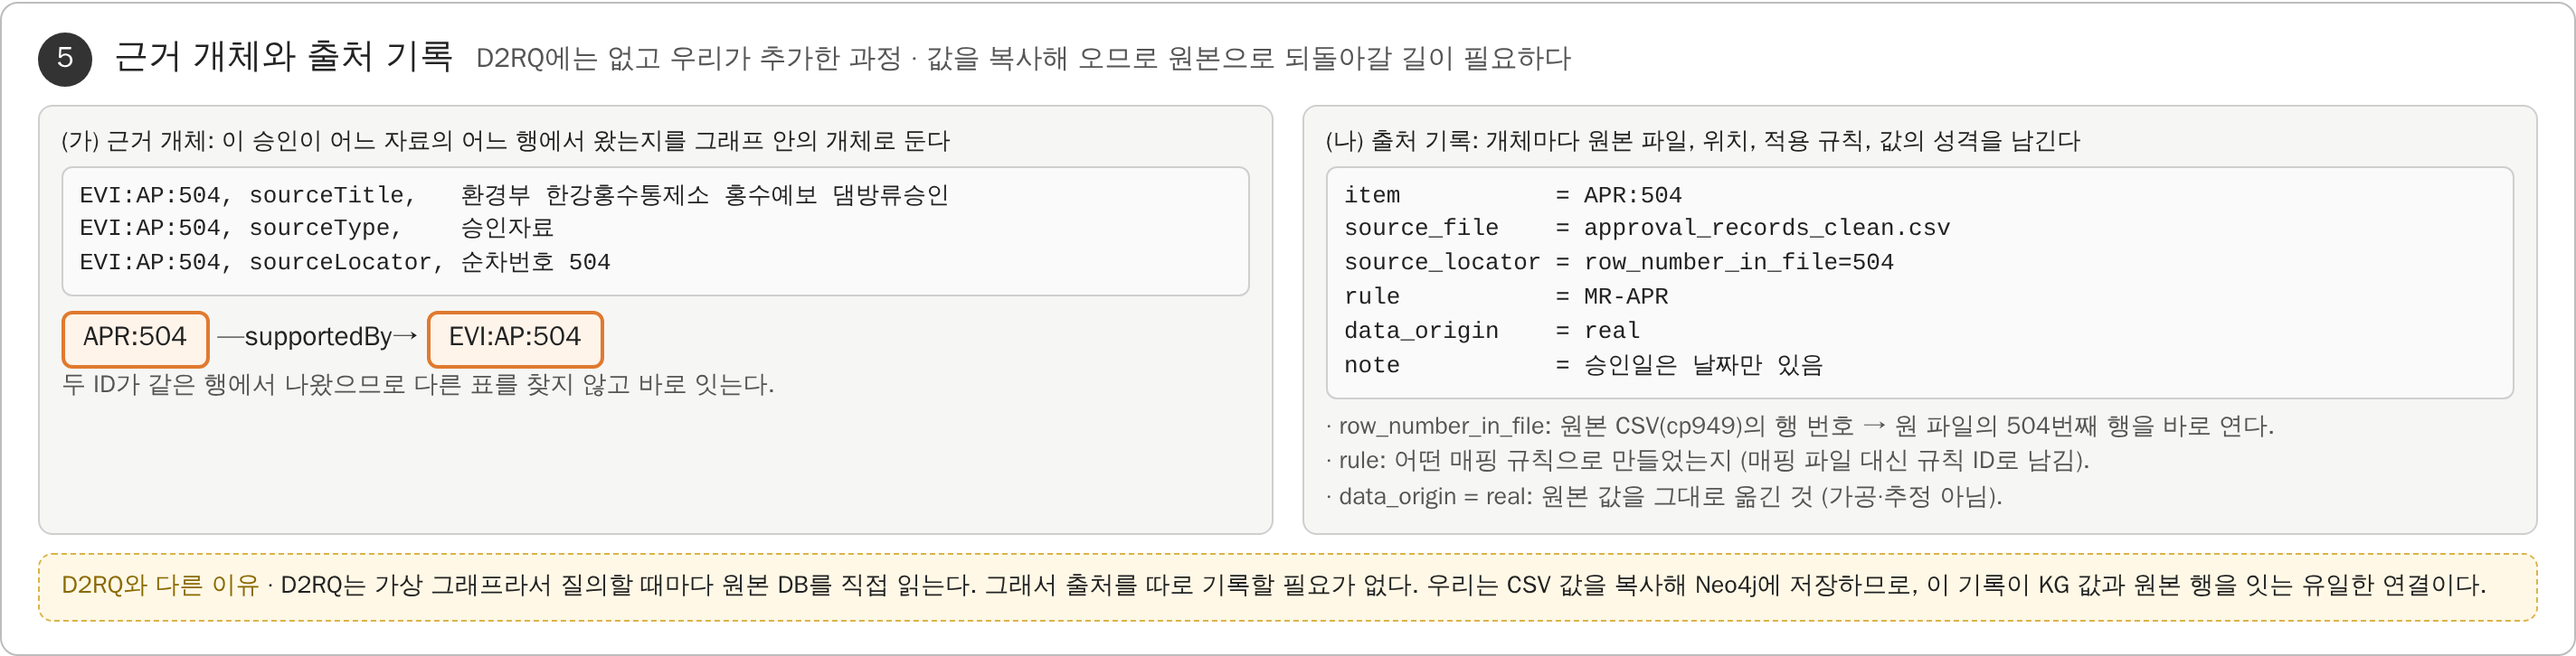
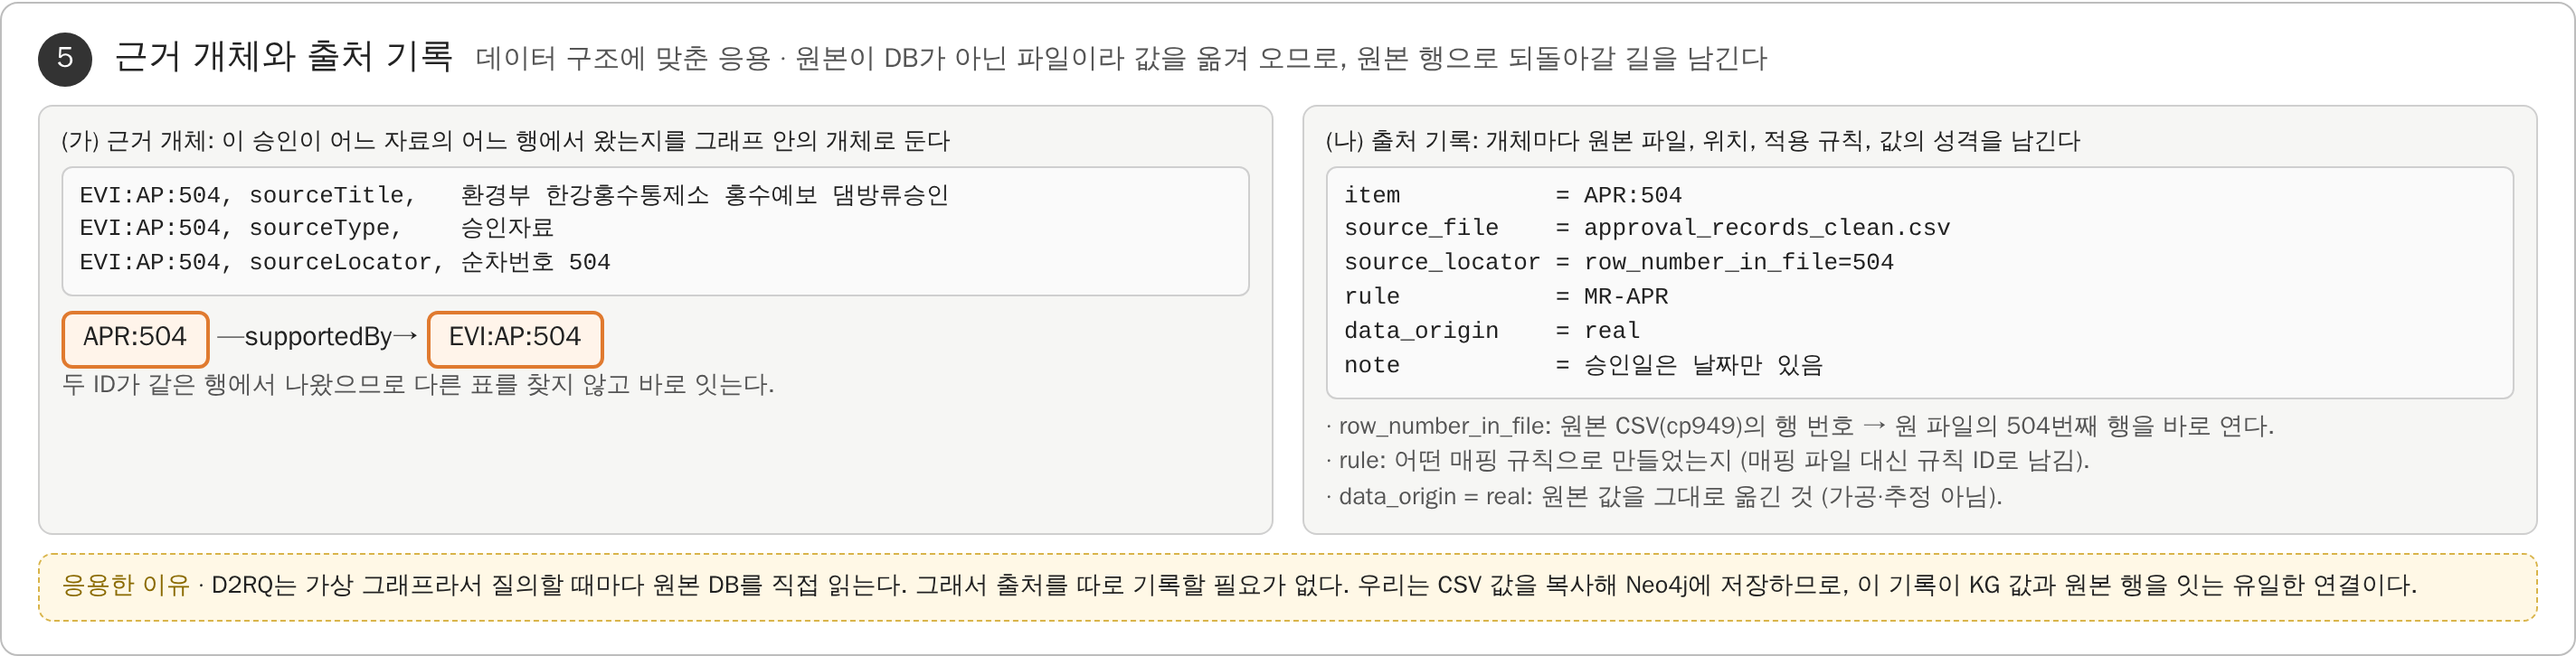
how 1단계 문서: 벤치마킹한 D2RQ 원리, 구현 과정, 데이터 구조에 맞춘 응용, 남은 문제
Claude-Session: https://claude.ai/code/session_015aebDX6SyyHMBBEAC3tkZT

Changed region(s): [[0.1875, 0.0606, 0.6875, 0.1212], [0.0, 0.8788, 0.9688, 0.9091]]

diff --git a/lab_meeting/how/01_구조화자료_매핑.md b/lab_meeting/how/01_구조화자료_매핑.md
@@ -1,0 +1,185 @@
+# how 1. 구조화 자료 매핑 (정형 표 → KG 개체)
+
+그림: `fig/step1_mapping_full.png` (패널별 `fig/step1_p1.png` ~ `step1_p6.png`, 원본 `fig/step1_mapping.html`)
+
+순서: 1. 문헌 근거(벤치마킹한 원리) → 2. 우리 구현(과정과 결과물) → 3. 데이터 구조에 맞춰 응용한 부분 → 4. 남은 문제
+
+---
+
+## 1. 문헌 근거
+
+### 1.1 표기
+
+- 문헌: Zhou, Z. 외 (2023). BIM and ontology-based knowledge management for dam safety monitoring. *Automation in Construction*, 145, 104649.
+- **OntoDSMS**: 이 논문이 구축한 댐 안전 모니터링 시스템(DSMS) 도메인 온톨로지의 이름이다. 기술 이름이 아니다.
+- **D2RQ**: 이 논문이 만든 것이 아니라 기존 오픈소스 플랫폼이다. 논문은 MySQL에 저장된 모니터링 데이터를 OntoDSMS에 연결할 때 D2RQ를 사용했다(4장, 그림 3).
+- **본 연구가 벤치마킹한 것**: D2RQ의 매핑 원리이다. 도구 자체나 OntoDSMS 방법론 전체를 따른 것이 아니다.
+
+랩미팅 자료 표기:
+> Zhou 외(2023)가 OntoDSMS 구축 시 관계형 DB 연결에 사용한 D2RQ의 매핑 원리를 벤치마킹하여, 정형 표를 KG 개체로 변환하였다.
+
+### 1.2 벤치마킹한 원리
+
+논문 4장의 설명과 그림 3(수정된 매핑 파일 일부)에 근거한다. D2RQ의 매핑은 "표는 클래스, 열은 속성(DatatypeProperty), 행은 인스턴스, 셀은 값(리터럴)"이라는 네 가지 대응을 매핑 파일의 선언으로 구현한다. 본 연구는 그중 다음 네 가지 원리를 가져왔다.
+
+**원리 1. 행의 키 값으로 개체 식별자를 만든다.**
+그림 3의 ClassMap은 `d2rq:uriPattern "item/@@item.item_ID@@"`로 식별자를 만든다. `@@` 사이에 적힌 열(item 표의 item_ID)의 값을 행마다 끼워 넣는 틀이다. item_ID가 7인 행은 `item/7`이라는 식별자를 갖는다. 식별자가 키 값에서 결정되므로 같은 행은 언제나 같은 식별자를 받는다. 그래서 다른 매핑이나 질의가 이 식별자로 개체를 다시 가리킬 수 있다.
+
+**원리 2. 한 표에서 나온 식별자는 모두 같은 클래스의 인스턴스가 된다.**
+같은 ClassMap의 `d2rq:class :Item`은 위 틀로 만든 모든 식별자를 온톨로지의 Item 클래스 인스턴스로 선언한다. 논문은 이를 "Converting a table in a database to a class in an ontology"라고 설명한다. 표 하나가 클래스 하나에 대응하고, 표의 각 행은 그 클래스의 인스턴스 하나가 된다.
+
+**원리 3. 열 하나를 속성 하나에 대응시키고, 셀 값을 속성값으로 옮긴다.**
+그림 3의 PropertyBridge는 세 가지를 선언한다. `d2rq:belongsToClassMap map:item`은 값을 어느 개체에 붙일지, `d2rq:property :itemName`은 온톨로지의 어떤 속성인지, `d2rq:column "item.Genre"`는 어느 열의 셀 값을 옮길지이다. 논문은 이를 "Converting a column in a table to a DatatypeProperty in an ontology"라고 설명한다. 고정 문자열과 열 값을 조합해야 할 때는 `d2rq:pattern`을 쓴다. 그림 3에서는 rdfs:label을 `"item #@@item.item_ID@@"`로 만든다.
+
+**원리 4. 열과 속성의 대응은 사람이 온톨로지 용어로 정한다.**
+논문에 따르면 매핑 파일은 DB 구조로부터 자동 생성된다. 이때 클래스와 속성 이름은 DB의 표 이름과 열 이름을 그대로 쓴다. 이것을 사람이 온톨로지 용어에 맞게 수정한다. 그림 3에서 Genre 열이 `:itemName` 속성에 대응된 것이 그 결과이다. 즉 "어느 열이 어느 속성인가"는 자동으로 정해지지 않고, 온톨로지 설계에 따라 사람이 정한다.
+
+---
+
+## 2. 우리 구현
+
+### 2.1 방류 승인 표 → Approval, EvidenceSource (그림 ①~⑥)
+
+**입력.** `approval_records_clean.csv`에서 대상 4개 댐(충주, 소양강, 횡성, 광동)의 80행을 쓴다. 한 행은 승인 한 건이다. 열은 순차번호, 관측소코드, 관측소명, 승인년월일시분, 방류시작시간, 접수방류량, 비고, 그리고 출처 열 6개(기관, 내려받은 주소, 원본 파일명, SHA-256 등)이다. 아래 설명은 504행을 예로 든다.
+
+```
+순차번호=504, 관측소코드=1003110, 관측소명=충주, 승인년월일시분=2011-06-27,
+방류시작시간=2011-06-27 18:00, 접수방류량=2000, 비고=(실제방류는 20시부터)
+```
+
+먼저 열마다 역할을 정했다(그림 ①, 원리 4).
+- 순차번호는 식별자를 만드는 키이다.
+- 관측소명은 라벨에 쓴다.
+- 승인년월일시분은 속성이 된다.
+- 방류시작시간, 접수방류량, 비고는 내용 속성이 된다.
+- 관측소코드는 속성이 아니라 댐과의 관계에 쓴다.
+- 출처 열은 근거 개체와 출처 기록에 쓴다.
+
+**과정 1. 식별자 생성 (원리 1, 그림 ②).**
+틀 `"APR:" + {순차번호}`에 504를 넣어 승인 개체 `APR:504`를 만든다. 같은 행에서 틀 `"EVI:AP:" + {순차번호}`로 근거 개체 `EVI:AP:504`도 만든다. 키로 순차번호를 고른 이유는 세 가지이다.
+- 원본 자료가 승인 한 건마다 매긴 번호이다.
+- 전처리에서 중복 행을 지운 뒤에는 표 안에서 유일하다. 그래서 80행은 서로 다른 ID 80개가 된다.
+- 원본 자료를 다시 내려받아도 바뀌지 않는다.
+
+ID가 값에서 결정되므로 KG를 다시 만들어도 같은 ID가 나온다. 3단계(관계 연결)는 이 ID로 개체를 찾는다.
+
+**과정 2. 클래스 지정과 라벨 (원리 2, 원리 3의 pattern, 그림 ③).**
+- 승인 표에서 나온 `APR:` ID 80개는 모두 Approval 클래스의 인스턴스로, `EVI:AP:` ID 80개는 모두 EvidenceSource 클래스의 인스턴스로 기록한다.
+- 라벨은 틀 `"승인 {순차번호} ({댐명})"`으로 만든다. 승인 자료의 관측소명은 "충주"이고 K-water 자료는 "충주댐"이다. 그래서 관측소명을 표준 댐명 사전으로 "충주댐"으로 바꾼 뒤 틀에 넣는다.
+
+결과물(`kgv4_entities.csv`):
+```
+APR:504,    Approval,       승인 504 (충주댐)
+EVI:AP:504, EvidenceSource, 한강홍수통제소 댐방류승인 순차번호 504
+```
+
+**과정 3. 열 → 속성 (원리 3, 그림 ④).**
+- 승인년월일시분 열은 `approvalTime` 속성에 대응한다. 셀 값의 앞 10글자를 날짜(date)로 읽어 `2011-06-27`을 저장한다(column 대응).
+- 방류시작시간, 접수방류량, 비고 세 열은 틀 `"방류시작 {}; 접수방류량 {}㎥/s; 비고: {}"`에 넣어 `approvalContent` 문자열 하나로 저장한다(pattern 대응). 비고가 비어 있으면 앞의 두 값만 넣는다. → 4장 남은 문제
+- 관측소코드는 속성으로 만들지 않는다. 3단계에서 `concernsDam` 관계의 끝점을 찾는 데 쓴다.
+
+결과물(`kgv4_properties.csv`):
+```
+APR:504, approvalTime,    2011-06-27, date
+APR:504, approvalContent, 방류시작 2011-06-27 18:00; 접수방류량 2000㎥/s; 비고: (실제방류는 20시부터), string
+```
+
+**과정 4. 근거 개체의 속성 (그림 ⑤-가).**
+같은 행의 출처 정보를 근거 개체의 속성으로 옮긴다. 근거 개체와 승인 개체는 같은 행에서 나왔으므로, 다른 표를 찾지 않고 바로 `APR:504 —supportedBy→ EVI:AP:504`로 잇는다.
+```
+EVI:AP:504, sourceTitle,   환경부 한강홍수통제소 홍수예보 댐방류승인
+EVI:AP:504, sourceType,    승인자료
+EVI:AP:504, sourceLocator, 순차번호 504
+```
+
+**과정 5. 출처 기록 (그림 ⑤-나).**
+개체마다 다섯 가지를 한 줄로 남긴다: 원본 파일, 원본 안의 위치, 적용한 매핑 규칙의 ID, 값의 성격(origin), 메모.
+```
+APR:504, approval_records_clean.csv, row_number_in_file=504, MR-APR, real, 승인일은 날짜만 있음
+```
+- `row_number_in_file`은 원본 CSV(cp949)의 행 번호이므로, 원 파일의 해당 행을 바로 열 수 있다.
+- `rule`은 매핑 규칙을 식별한다. D2RQ에서 매핑 파일이 하던 "어떤 규칙으로 만들었는가"의 기록을 대신한다.
+- `real`은 원본 값을 가공하지 않고 옮겼다는 뜻이다.
+
+### 2.2 K-water 일자료 → Dam
+
+**입력.** `kwater_mywater_period_daily_long.csv.gz`이다. 한 행은 (댐, 날짜, 변수) 하나의 측정값이다. 댐 기본 정보만 담은 표는 따로 없고, 측정 행마다 댐 코드(DAM_CD), 댐 이름, 댐 유형(DAM_BO_NM_source)이 반복해서 붙어 있다.
+
+**과정.**
+- 식별자는 틀 `"DAM:" + {DAM_CD}`로 만든다(원리 1). 충주댐은 `DAM:1003110`이다.
+- 같은 DAM_CD를 가진 여러 행은 하나의 Dam 인스턴스로 묶는다.
+- 댐 유형 열은 그 댐의 첫 행 값을 `damType` 속성으로 옮긴다(원리 3).
+- `damName`에는 표준 댐명을 넣는다.
+
+결과물:
+```
+DAM:1003110, Dam, 충주댐
+DAM:1003110, damName, 충주댐,   string
+DAM:1003110, damType, 다목적댐, string
+```
+
+### 2.3 K-water 시간자료 → HydrometeorologicalState (HMS)
+
+**입력.** `kwater_mywater_hydr_H_wide.csv.gz`(553,609행)이다.
+- 한 행은 (댐 코드, 시각)이다.
+- 변수는 열로 펼쳐져 있다: `DATA1_수위(EL.m)`, `DATA2_저수량(MCM)`, `DATA3_강우량(mm)`, `DATA4_유입량(CMS)`, `DATA6_총방류량(CMS)`, `DATA7_저수율(%)`
+
+**과정.**
+- 식별자는 틀 `"HMS:" + {DAM_CD} + ":" + {변수명}`으로 만든다. 변수명은 열 머리에서 가져온다. 충주댐 수위는 `HMS:1003110:수위`이다.
+- 4개 댐 × 6개 변수로 24개 인스턴스를 만든다.
+- 변수명은 `variableType`, 댐 코드는 `stationCode` 속성으로 넣는다.
+- 시간별 값 자체는 KG에 넣지 않고 측정 저장소에 둔다. 출처 기록에는 그 값이 있는 열 이름(`DATA1_수위(EL.m)`)을 위치로 남긴다.
+
+결과물:
+```
+HMS:1003110:수위, HydrometeorologicalState, 충주댐_수위
+HMS:1003110:수위, variableType, 수위,    string
+HMS:1003110:수위, stationCode,  1003110, string
+```
+
+같은 방식으로 댐마다 측정자료 근거 개체 `EVI:KW:{DAM_CD}`(4개)를 만든다.
+
+### 2.4 이 단계의 결과물
+
+- 개체 192개: Approval 80, EvidenceSource 84(승인 80 + 측정자료 4), HMS 24, Dam 4
+- 속성 468개: 승인 160, 근거 252, HMS 48, 댐 8
+- 개체마다 출처 기록 1줄
+
+이 단계가 끝나면 개체와 속성은 갖춰지지만, 서로 다른 표에서 나온 개체(승인과 댐 등)는 아직 연결되지 않은 상태이다. 연결은 3단계에서 다룬다.
+
+---
+
+## 3. 데이터 구조에 맞춰 응용한 부분
+
+원리는 그대로 두고, 우리 자료의 구조가 OntoDSMS의 DB와 달라서 구현 방식을 바꾼 부분이다.
+
+**(1) 원본이 DB가 아니라 파일이다 → 값을 옮기고 출처를 기록한다.**
+- OntoDSMS의 원본은 MySQL DB였다. D2RQ는 매핑 파일에 DB 연결을 선언하고, 원본 DB를 그대로 둔 채 질의할 때마다 매핑을 거쳐 읽는다.
+- 우리 원본은 공공데이터 포털과 K-water에서 내려받은 CSV, JSON 파일이다. 질의를 받을 수 있는 DB가 아니다. 그래서 매핑한 값을 그래프 DB(Neo4j)로 옮겨 저장했다.
+- 값을 옮기면 KG의 값과 원본 행의 연결이 끊긴다. 이를 보완하려고 과정 4(근거 개체)와 과정 5(출처 기록)를 추가했다.
+- 같은 이유로 매핑 규칙은 별도 매핑 파일 대신 변환 코드에 적었다. 대신 각 개체에 규칙 ID를 남겨 어떤 규칙으로 만들었는지 추적할 수 있게 했다.
+- 열이 몇 개뿐이어서, 자동 생성 후 수정하는 단계 없이 처음부터 사람이 대응을 정했다(원리 4).
+
+**(2) 승인 시각 열에 날짜만 있다 → 날짜형으로 옮긴다.**
+열 이름은 '승인년월일시분'이지만 원본 값은 모두 `2011-06-27`처럼 날짜뿐이다. 없는 시각을 만들어 넣지 않고, 값의 실제 형태대로 date 자료형으로 저장했다. 이 사실은 출처 기록의 메모("승인일은 날짜만 있음")로 남겼다.
+
+**(3) 댐 기본 정보 표가 없다 → 같은 키의 여러 행을 하나의 인스턴스로 묶는다.**
+원리 2는 "행 하나 = 인스턴스 하나"이다. 그런데 우리 자료에서 댐 정보는 측정 행마다 반복되어 있을 뿐, 댐 한 개가 한 행인 표가 없다. 그래서 키(DAM_CD)가 같은 행들을 하나의 Dam 인스턴스로 묶었다. 원리 1에 따라 식별자가 키 값에서 결정되므로, 같은 키의 행들은 자연히 같은 식별자로 모인다.
+
+**(4) 측정 표가 넓은 형태이고 행이 55만 개이다 → (댐 코드, 열 머리)로 인스턴스를 만든다.**
+- 원리를 그대로 적용하면 시간자료의 각 행(댐, 시각)이 인스턴스가 되어, 553,609개의 노드가 각각 속성 6개를 갖게 된다.
+- 그러나 KG에서 필요한 것은 "어느 댐에 어떤 측정 변수가 있는가"라는 구조이고, 시각별 값은 측정 저장소에서 시각으로 조회하면 된다.
+- 그래서 행의 키(DAM_CD)와 열 머리(변수명)를 함께 식별자 틀에 넣어 (댐, 변수)마다 인스턴스를 만들었다. "키 값으로 식별자를 만든다"는 원리 1을, 넓은 표에서 키가 들어 있는 두 곳(키 열과 열 머리)에 적용한 것이다.
+
+**(5) 관측소코드는 다른 개체를 가리키는 열이다 → 속성이 아니라 관계로 만든다.**
+승인 표의 관측소코드 값은 K-water의 댐 코드와 같다. 이 값을 문자열 속성으로 두지 않고, 3단계에서 Dam 개체를 찾아 `concernsDam` 관계로 잇는 데 썼다. 이렇게 하면 "충주댐의 승인"을 문자열 비교가 아니라 관계를 따라가서 찾을 수 있다.
+
+---
+
+## 4. 남은 문제
+
+**approvalContent 병합.**
+- 방류시작시간, 접수방류량, 비고는 원본에서 이미 서로 다른 열이고, 각각 시각, 숫자, 문장이라는 분명한 형태를 갖는다. 그래서 이들을 합친 것은 데이터 구조 때문에 응용한 것으로 보기 어렵고, 원리 3(열 하나 → 속성 하나)에서 벗어난 것이다.
+- 그 결과 방류 시작 시각과 접수방류량이 문자열 안에 묻혀 있다. "2000㎥/s 이상 승인"이나 "승인 후 몇 시간 뒤 방류 시작" 같은 질의를 할 수 없다.
+- 원리대로라면 세 속성으로 나눠야 한다: `dischargeStartTime`(datetime), `requestedDischarge`(decimal, ㎥/s), `remark`(string).
+- 고치려면 온톨로지에 속성 정의를 추가하고, KG 재생성, 검증, Cypher 내보내기를 다시 해야 한다.
